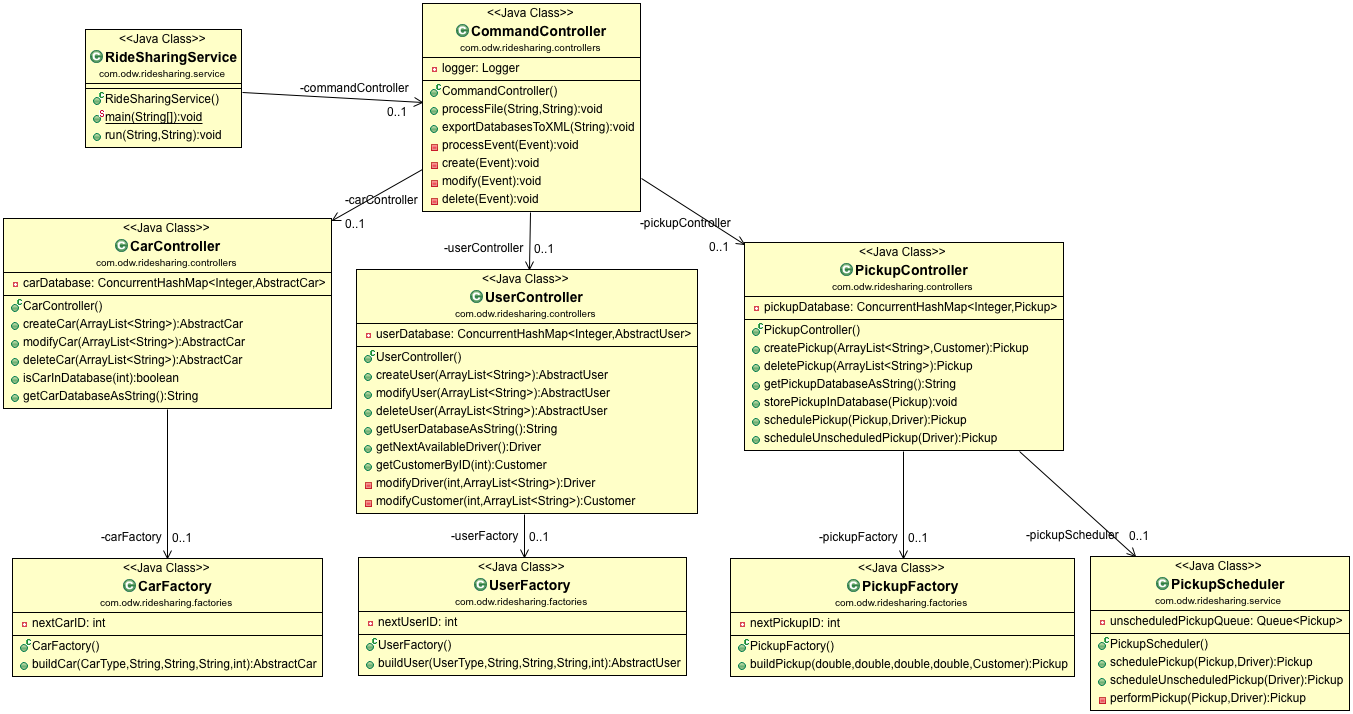
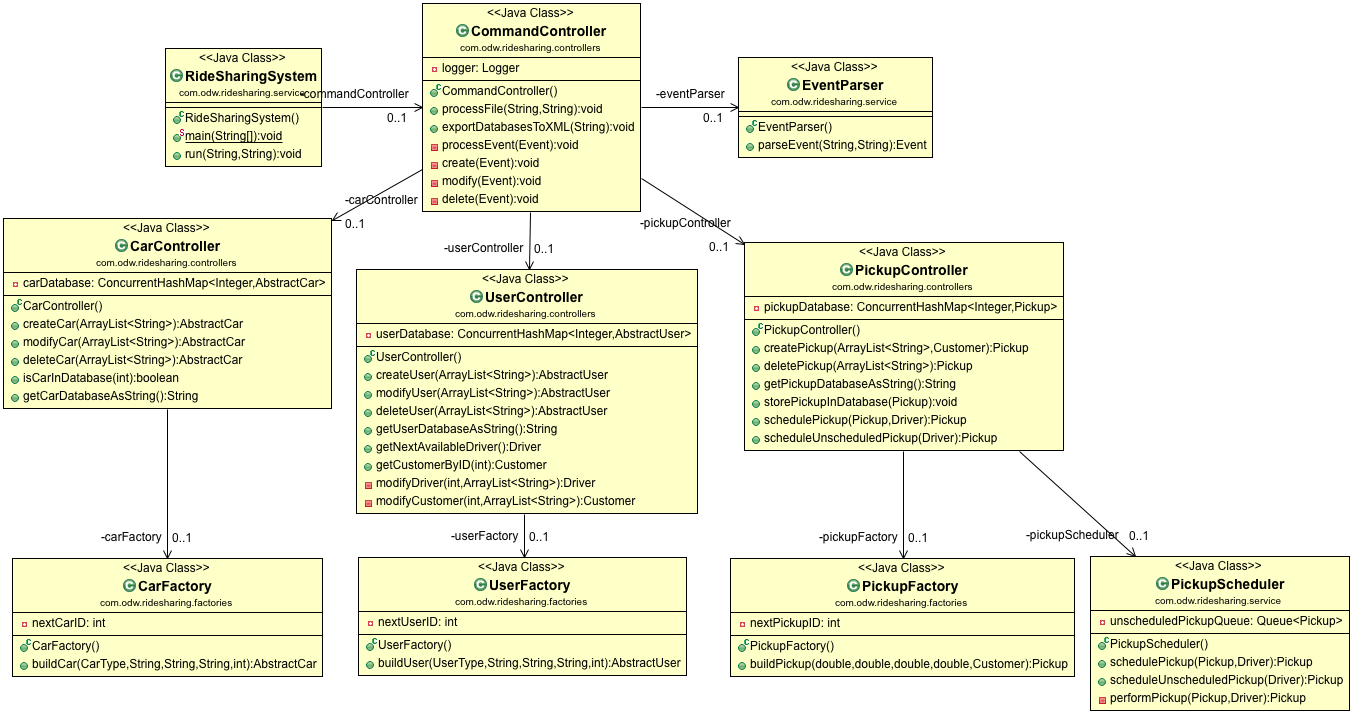
Added EventParser as field to CommandController.

Changed region(s): [[0.0621, 0.0308, 0.3104, 0.2465], [0.4967, 0.0616, 0.714, 0.2465]]

diff --git a/src/main/java/com/odw/ridesharing/controllers/CommandController.java b/src/main/java/com/odw/ridesharing/controllers/CommandController.java
@@ -40,6 +40,7 @@ public class CommandController {
     private CarController    carController    = new CarController();
     private UserController   userController   = new UserController();
     private PickupController pickupController = new PickupController();
+    private EventParser      eventParser      = new EventParser();
     private Logger           logger           = LoggerFactory.getLogger(CommandController.class);
     
     /**
@@ -52,7 +53,6 @@ public class CommandController {
      *            The delimiter used in the file to separate values.
      */
     public void processFile(String inputFile_, String delimiter_) {
-        EventParser _eventParser = new EventParser();
         
         try (BufferedReader _inputReader = new BufferedReader(new InputStreamReader(new FileInputStream(inputFile_)))) {
             logger.trace("PROCESSING FILE: {}", inputFile_);
@@ -61,7 +61,7 @@ public class CommandController {
             String _nextLine = null;
             while ((_nextLine = _inputReader.readLine()) != null) {
                 try {
-                    processEvent(_eventParser.parseEvent(_nextLine, delimiter_));
+                    processEvent(eventParser.parseEvent(_nextLine, delimiter_));
                 } catch (InvalidEventException e_) {
                     logger.error("ERROR PARSING EVENT: {}", e_.getMessage());
                 }
@@ -114,6 +114,20 @@ public class CommandController {
             logger.info("EXPORTED DATABASE TO FILE: {}", pickupDatabaseOutputFile.getAbsolutePath());
         } catch (JAXBException e_) {
             logger.error("ERROR MARSHALLING DATABASE: {}", e_.getMessage());
+        }
+    }
+    
+    /**
+     * Processes an event that was given as a string.
+     * 
+     * @param newEvent_
+     *            A string of the event to be processed.
+     */
+    public void processEvent(String newEvent_) {
+        try {
+            processEvent(eventParser.parseEvent(newEvent_, "|"));
+        } catch (InvalidEventException e_) {
+            logger.error("ERROR PARSING EVENT: {}", e_.getMessage());
         }
     }
     
